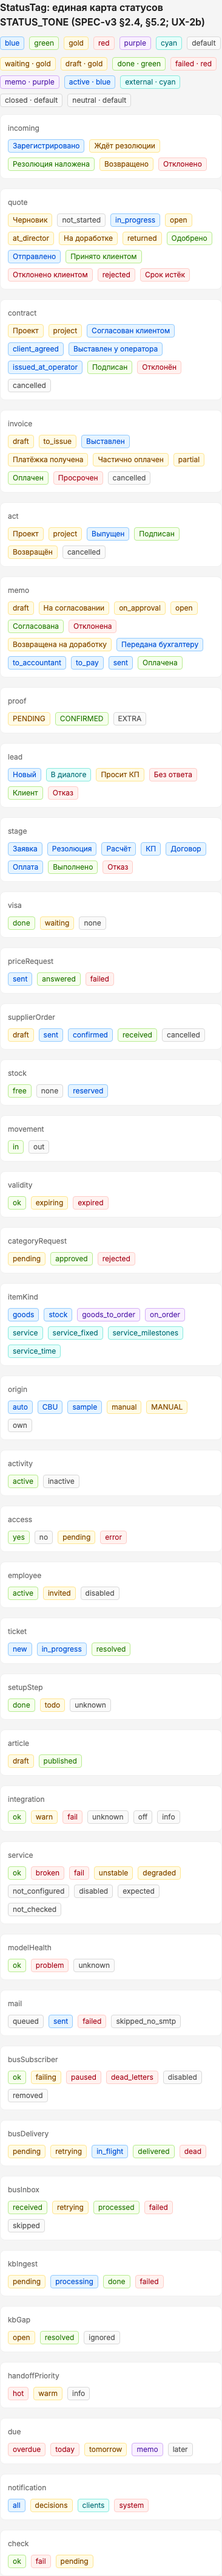
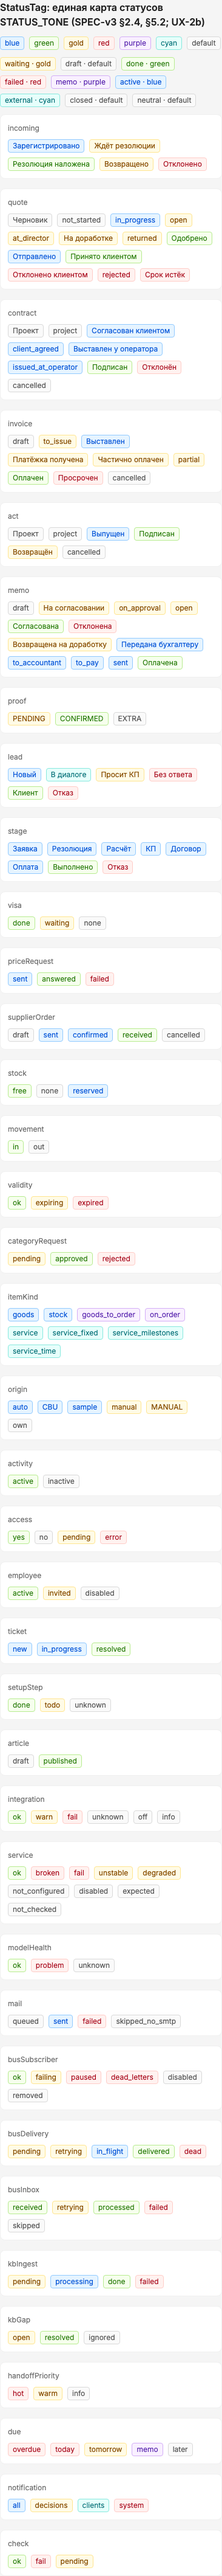
feat(web): черновик серым (решение владельца); итог UX-2 и бэкапа — «Что нового», PROGRESS, HANDOFF, BACKLOG

diff --git a/apps/platform/web/src/shared/lib/statuses.ts b/apps/platform/web/src/shared/lib/statuses.ts
@@ -46,8 +46,8 @@ export type StageOrLost = StageCode | "LOST";
 export const MEANING_TONE = {
   /** Ждёт решения или действия сотрудника: на согласовании, у директора, возвращено, платёжка получена, в очереди */
   waiting: "gold",
-  /** Черновик, проект документа (SPEC-v3 §5.2 — как «ждёт решения») */
-  draft: "gold",
+  /** Черновик, проект документа — серый, чтобы не путать с «ждёт решения» (владелец 2026-10-31, SPEC-v3 §5.2) */
+  draft: "default",
   /** Одобрено, готово, подписано, оплачено, работает */
   done: "green",
   /** Отклонено, отказ, просрочено, срок истёк, сбой */

diff --git a/apps/platform/web/src/shared/lib/statuses.test.ts b/apps/platform/web/src/shared/lib/statuses.test.ts
@@ -112,10 +112,10 @@ describe("карты статусов", () => {
     expect(conflicts).toEqual([]);
   });
 
-  it("смысл → цвет по SPEC-v3 §5.2: ждёт — золотой, одобрено — зелёный, отклонено — красный, отменено — серый", () => {
+  it("смысл → цвет по SPEC-v3 §5.2: ждёт — золотой, черновик и отменено — серый, одобрено — зелёный, отклонено — красный", () => {
     expect(MEANING_TONE).toEqual({
       waiting: "gold",
-      draft: "gold",
+      draft: "default",
       done: "green",
       failed: "red",
       memo: "purple",

diff --git a/docs/BACKLOG.md b/docs/BACKLOG.md
@@ -82,9 +82,12 @@
 | B-UIA-1 | Номер заявки (ЗВ) ведёт в заглушку «Клиенты · Заявки» (письмо, КП, лента, поиск); так же «Главная · Проекты», «Сводка», «Исходящие», «Чаты» — после P6 станут тупиками. Ссылки ЗВ — в рабочий экран (карточка клиента «Заявки и проекты» или `/erp/requests?request=`); P6 — явный список разделов без замены и решение по каждому (R5, D5) | [аудит 2026-10-30](audits/2026-10-30-platform-ui.md) | Платформа + BFF | тупик | P1 | 18a, до P6 |
 | B-UIA-2 | «Мои задачи» неполные: нет заданий на расчёт и виз, платёжек на подтверждение, счетов к выставлению, шагов договора и акта; пустая очередь бухгалтера ложная; счётчики меню в моках заданы вручную (`mocks/fixtures/feeds.ts`). Пересекается с D2-8 — брать вместе (U1) | [аудит 2026-10-30](audits/2026-10-30-platform-ui.md) | BFF + Платформа | тупик | P1 | 17 (D2-8) |
 | B-UIA-3 | Статьи помощи устарели: `docs/kb/help/drafts.md`, `payments.md`, `projects.md`, `leads.md`, `calc.md`, `summary.md` говорят «ещё переносится», «в старом ERP»; обещания «к пилоту» у того, что будет в 18b («Чаты», «Чат проекта», «Сводка») | [аудит 2026-10-30](audits/2026-10-30-platform-ui.md) | docs + Платформа | UX | P1 | 18a (с P8) |
-| B-UIA-4 | UX-2 «Каркас страницы», до пилота: деньги — «сум» внутри `formatMoney` (сейчас «сум» и «UZS» в одной строке, 16 копий подмены); `DateField`/`FileField`/Select вместо системных `input date|file` и `<select>` (31 место); одна карта `STATUS_TONE`; переполнения 390 во Входящих и на Складе | [аудит 2026-10-30](audits/2026-10-30-platform-ui.md) | Платформа | UX | P1 | UX-2, до пилота |
+| B-UIA-4 | **Сделано** (#341 поля, #342 суммы, статусы, 390; #343 черновик серым) — строку удалить при следующей чистке. Было: UX-2 «Каркас страницы», до пилота: деньги — «сум» внутри `formatMoney` (сейчас «сум» и «UZS» в одной строке, 16 копий подмены); `DateField`/`FileField`/Select вместо системных `input date|file` и `<select>` (31 место); одна карта `STATUS_TONE`; переполнения 390 во Входящих и на Складе | [аудит 2026-10-30](audits/2026-10-30-platform-ui.md) | Платформа | UX | P1 | UX-2, до пилота |
 | B-UIA-5 | UX-2 после пилота: `PageLayout`, `PageTabs`, `FilterBar`, `DataTable` (типы колонок, ширины, мобильная карточка, настройка видимых колонок), `PageSection`; `useConfirm` и `ErrorNote` вместо `message.error`; правая шторка — только `ContextPanel`; линтер (`style=`, `<table>`, `<select>`, antd `Drawer/Modal/Tabs` в модулях, межмодульные импорты) и stylelint (токены, шкалы, брейкпоинты) | [аудит 2026-10-30](audits/2026-10-30-platform-ui.md) | Платформа | долг | P2 | UX-2 |
 | B-UIA-6 | Решения оформлены по-разному (резолюция, КП, служебка — порядок блоков, глаголы), статус КП называется по-разному в реестре, карточке и колокольчике; системные слова в текстах (CRM, ERP, EDS, «бэк-офис», «ансамбль», «служебка», «Заказчик»); Профиль и Помощь без крошек (D2, D3, G2, G4) | [аудит 2026-10-30](audits/2026-10-30-platform-ui.md) | Платформа | UX | P2 | после пилота |
+| B-UIA-7 | Матрица ролей: редактируемый столбец может оказаться под боковым окном в режиме «поверх» — мышью до ячейки не дотянуться (в e2e обходится выбором с клавиатуры). Решение — в каркасе (UX-2 после пилота) | [аудит 2026-10-30](audits/2026-10-30-platform-ui.md), PR #341 | Платформа | UX | P2 | UX-2 после пилота |
+| B-UIA-8 | Скан договора и акта в `eds/projects/forms.tsx` — на antd `Upload`, не на общем `FileField` (UX-2a) | PR #341 | Платформа | долг | P3 | UX-2 после пилота |
+| B-UIA-9 | Флейк e2e `admin-roles.spec.ts:52` под нагрузкой (3 воркера): помощник `chooseOption` в `e2e/support/fields.ts` не всегда двигает активный пункт списка; в CI зелёный, есть и на `main` | PR #342 | Платформа | тест | P3 | попутно |
 | B-HANDOFF-1 | Тест `apps/crm/backend/tests/integration/test_monitoring.py::test_alerts_fire_once_repeat_and_resolve` падает при запуске с 23:30 до 00:00 по Ташкенту: бюджет «за сегодня» плюс сдвиг часов на 30 минут переходит через полночь. CI в это окно краснеет, повторный запуск после полуночи проходит. Нужно зафиксировать в тесте «сейчас» (полдень дня компании), а не брать реальные часы. | сворачивание 2026-10-29 (CI #326) | CRM | тест | P2 | волна 18a, попутно |
 | B-W18AP3-1 | «Чаты · С клиентами» — заглушка: API есть (CRM `GET /chats`, BFF `GET /chats/external`, лента и вложения по `getCrmThread`), экрана нет; из карточки счёта «Счета и оплаты» нет перехода к переписке клиента (`erp_deal_id`) для «Запросить платёжку». Бухгалтер пока просит менеджера переслать сообщение или файл. | PR W18A-P3 (B-D18-1) | Платформа | UX | P1 | волна 18b (Chats D3) вместе с B-081 |
 | B-W18AP3-2 | Ответ клиенту держателю только `chats:reply` (бухгалтер) на деле закрыт: CRM пишет клиенту только ответственный после «Забрать», а «Забрать» — право реестра `leads:take`. Нужен ли бухгалтеру свой ответ в диалоге сделки со счётом (или только шаблон «Запросить платёжку», B-081) — решение архитектора. | PR W18A-P3 (B-D18-1) | CRM | вопрос | P2 | волна 18b, вместе с B-W18AP3-1 |

diff --git a/docs/DECISIONS.md b/docs/DECISIONS.md
@@ -239,3 +239,4 @@
 | 2026-10-29 | **Владелец: ответы на «Ждут владельца» W-1…W-27 — «по рекомендации»** (W-DOCS2; формулировки вопросов — [`history/questions-2026-10.md`](history/questions-2026-10.md)). **Продукт и пилот:** W-1 виза услуг на пилоте — менеджер-универсал; W-2 пилот — четыре шаблона ролей (админ, директор, делопроизводитель, менеджер-универсал), задача P8 в runbook 18a, критерии успеха — 3–5 метрик SPEC-v3 §1.3 (предлагает архитектор); W-3 этап C3 «Родной словарь» — после пилота, до 1.0; W-4 C4 «Темы» — после 1.0, без темы «Как в ERP»; W-5 термины: входящее / сервисное обращение / обращение к администратору, «запрос» — слово клиента для заявки, `Deal` — внутреннее имя; W-6 умолчания нумерации ERP — как SPEC-v3 §2.2, плюс `ЗЯ`, `ОТ`; W-7 границы SPEC-v3 — до 1.0, интеграции — этап F; W-8 BUSINESS — основание с баннером, строка о приоритете снята; W-9 чаты сотрудников — домен CRM; W-10 «Что ожидается» — с каждым «Что нового». **Процесс:** W-11 автодеплой одобряет архитектор после зелёного CI и проверяет прод; W-12 гейт этапа — владелец, гейт волны — архитектор, решение — строка DECISIONS, лид переносит в PROGRESS; W-13 вертикальная задача волны допустима, если runbook перечисляет её зоны; W-14 архитектор — лучшая доступная модель Claude (сейчас Opus); W-15 «что ускорит — добро» — постоянно, архитектору, каждое изменение строкой DECISIONS; W-16 исполнитель смотрит CI, но не ждёт в цикле — чинит по сигналу лида; W-17 при сведении по одному сливает архитектор; W-18 лид — только Claude, Gemini — исполнитель; W-19 правило среды остаётся в корневом `CLAUDE.md` (исключение §3 п. 17); W-20 «Allow GitHub Actions to create and approve pull requests» остаётся выключенным; W-21 публичные IP и домены прода в документах допустимы, внутренние адреса и секреты — нет. **Архитектура:** W-22 заявка — ERP, CRM — инициатор и проекция; W-23 SPEC-v3 §2.1 — экран и владелец данных разведены; W-24 до 1.0 BFF ходит во внутренние API по контрактам Платформы (`erp-internal.yaml`, `crm.yaml`), публичные API — после 1.0; W-25 `CONTRACT_SIGNED` — вместе с C3; W-26 зеркало сделок CRM и режим `local` — удалить после пилота; W-27 снимки 1440 и 390 обязательны, системы добавляют свои. | ORCHESTRATOR §3 п. 17, §4, §4.1, §4.2, §5, §7; `CLAUDE.md`; GEMINI.md; SPEC-v3 §0, §2.1, §2.2, §4.1, §5.1; BUSINESS; стратегия (поправки); ADR-0015, ADR-0018, `adr/README.md`; platform-bff, CONTRACTS §1; runbooks/deploy, wave18a (P8, P7); HANDOFF; OWNER-CHECKLIST; BACKLOG B-WDOCS2-* |
 | 2026-10-30 | **Владелец (ТЗ UX-оболочки Платформы v1 и v2, PR #331):** (1) ширина `ModuleRail` оптимизирована до 56 px, внедрено всплывающее подменю `Hover Flyout` при свёрнутом меню и глобальный хоткей `Cmd+\` / `Ctrl+\` (`event.code === "Backslash"` в раскладках EN и RU); (2) боковое окно `ContextPanel` по умолчанию открывается поверх основного окна без сжатия таблиц, закрепление рядом (`docked`) — на экранах `≥ 1280px` по кнопке-булавке; (3) открытие панели задаёт только адрес (`?panel=open|closed`), `localStorage` (`rt-pf-panels-v2`) хранит только вид — ширину, режим, подменю и вкладку; (4) центр уведомлений — шторка справа (420 px) с фильтрами, без перехода на `/dashboard/queue`; (5) бар несохранённых изменений `ContextualSaveBar` с `Cmd+S` / `Ctrl+S` — только для обратимого сохранения настроек и черновиков; создание заявки и отправка документа остаются главной кнопкой формы с «Что произойдёт»; (6) SPEC-v3 §6.1, §6.4 и приложение А приведены к этому (рекомендация архитектора по ревью PR, владелец 2026-10-30: «по рекомендации»). | [architecture/platform-frontend.md](architecture/platform-frontend.md) §4, §4.1, PR #331 |
 | 2026-10-31 | **Владелец: внешняя копия бэкапов — Яндекс Диск компании (Яндекс 360) через пароль приложения в интерфейсе; Google Drive сервисным аккаунтом работает только с общим диском Workspace, на личном Google — `storageQuotaExceeded` (прод 2026-10-29); Google Drive остаётся вторым провайдером.** Подключение — пароль приложения типа «Файлы» (WebDAV `webdav.yandex.ru`), админ вводит его в Платформе (Настройки → Подключения → «Хранилище» → «Внешняя копия бэкапов»), на сервер ходить не нужно; новый внешний сервис не появляется — Яндекс 360 уже используется для почты. Выбор провайдера — в той же форме; настроенный Google Drive продолжает работать без миграции. Юристу — подтвердить одной фразой хранение копий на Яндекс Диске (OWNER-CHECKLIST). | [runbooks/offsite-gdrive.md](runbooks/offsite-gdrive.md), OPS-YADISK |
+| 2026-10-31 | **Владелец (по рекомендации архитектора, UX-2b): «Черновик» и проекты документов — серым, а не золотым** — золотой остаётся только у «ждёт решения», чтобы черновик не выглядел как задача на решение. Карта `MEANING_TONE.draft` в `shared/lib/statuses.ts`, SPEC-v3 §5.2. | [SPEC-v3](product/SPEC-v3.md) §5.2 |

diff --git a/docs/kb/help/changelog/2026-10-31.md b/docs/kb/help/changelog/2026-10-31.md
@@ -1,10 +1,13 @@
 ---
 date: 2026-10-31
-title: Спокойный интерфейс без скачков
+title: Спокойный интерфейс, единые поля и суммы
 ---
 - **Все:** Экран больше не сужается и не прыгает сам — ни при переходе между разделами, ни при открытии карточки. Боковое окно открывается поверх; рядом с основным оно встаёт, только если закрепить его булавкой и места хватает. Меню, закрепление и ширина окна одинаковы во всех разделах; меню сворачивается `Ctrl \`, а у свёрнутого меню разделы видны при наведении на модуль.
 - **Все:** Колокольчик открывает шторку с фильтрами «Непрочитанные / Все», не уводя с экрана. Кнопка окна в шапке — значок справа; поиск, «?» и колокольчик стоят на месте.
 - **Все:** Списки при смене фильтра, вкладки или страницы больше не пустеют — прежние строки остаются с тонкой полосой загрузки, колонки таблиц не меняют ширину.
 - **Все:** В настройках и профиле несохранённые правки показывает полоса внизу формы: «Сохранить» или `Ctrl S`, «Отменить». Уйти с несохранёнными правками без вопроса «Выйти без сохранения?» нельзя.
 - **Менеджер, Снабженец:** На карточке расчёта окно «Задание» открывается значком окна в шапке и не закрывает строки расчёта.
-<!-- PR: #331, #335, #336, #337 -->
+- **Все:** Даты вводятся и показываются в формате ДД.ММ.ГГГГ — цифрами с клавиатуры или в календаре; файлы прикрепляются кнопкой «Выбрать файл» со списком выбранных и «Убрать»; выпадающие списки — с поиском.
+- **Все:** Суммы в сумах выглядят одинаково во всех разделах и стоят по правому краю; цвет статуса один и тот же везде: ждёт решения — золотой, одобрено — зелёный, отклонено — красный, черновик и отменено — серые. На телефоне фильтры «Входящих» и карточки «Склада» помещаются в экран.
+- **Администратор:** Внешняя копия бэкапов настраивается на Яндекс Диск компании: «Настройки → Подключения → Хранилище → Внешняя копия бэкапов», логин и пароль приложения «Файлы», кнопка «Сохранить и проверить».
+<!-- PR: #331, #335, #336, #337, #340, #341, #342, #343 -->

diff --git a/docs/PROGRESS.md b/docs/PROGRESS.md
@@ -202,6 +202,14 @@ W-SPEED2 #301; починки `main` — #321, #323, #325, #326. Всё выло
 и провал до 140–199 px); сворачивание меню — один шаг ≈ 0,14 по действию пользователя (было 0,38/0,46 с 13–15 кадрами анимации).
 Дальше — UX-2 и продуктовые пункты аудита (HANDOFF §3, BACKLOG `B-UIA-*`).
 
+## UX-2 до пилота и бэкап на Яндекс Диск — 2026-10-31
+
+Последовательно, по одному PR с выкладкой: OPS-YADISK #340 (внешняя копия бэкапов на Яндекс Диск через пароль приложения «Файлы» в
+интерфейсе; Google Drive — вторым провайдером, на личном Google не работает — DECISIONS 2026-10-31), UX-2a #341 (единые поля
+`DateField`/`FileField`/antd `Select` вместо 32 системных полей, запрет линтером), UX-2b #342 (деньги — «сум» в одном месте, суммы
+вправо; одна карта цветов статусов; переполнения 390; флейк `stable-data` починен в продукте), #343 (черновик серым — решение
+владельца). Хвосты — BACKLOG `B-UIA-7…9`; за владельцем — настройка Яндекс Диска в интерфейсе и фраза юриста.
+
 ## Журнал сессий
 
 | Дата | Роль | Задача | Статус | Что сделано | Что осталось / нужно владельцу |

diff --git a/docs/product/SPEC-v3.md b/docs/product/SPEC-v3.md
@@ -259,10 +259,11 @@ Ant Design 5 + Ant Design Pro (ProLayout, ProTable, ProForm, ProCard, ProDescrip
 | `colorPrimaryBg` | `#e6f4ff` | фон активного пункта меню, выбранной строки таблицы, подсветка текущего шага |
 | `colorPrimaryText` | `#0958d9` | текст на `#e6f4ff` |
 | `colorSuccess` / text | `#52c41a` / `#237804` | статусы «Подписан», «Оплачен», визы |
-| `colorWarning` / text | `#faad14` / `#874d00` | «Ждёт решения», «Платёжка получена», «Черновик» |
+| `colorWarning` / text | `#faad14` / `#874d00` | «Ждёт решения», «Платёжка получена» |
 | `colorError` / text | `#ff4d4f` / `#a8071a` | «Просрочен», «Без ответа», бейджи очередей |
 | `purple` text | `#531dab` | служебные записки, внутренние чаты |
 | `cyan` text | `#006d75` | Telegram / внешние каналы |
+| серый (default) | тег без цвета | «Черновик», проект договора и акта, «Отменено», архив (владелец 2026-10-31: черновик не путается с «ждёт решения») |
 | `colorText` | `#1f1f1f` | основной текст |
 | `colorTextSecondary` | `#595959` | вторичный (7:1) |
 | `colorTextTertiary` | `#6e6e6e` | подписи 12 px (4.5:1 — минимум, ниже нельзя; DECISIONS 2026-10-22) |
